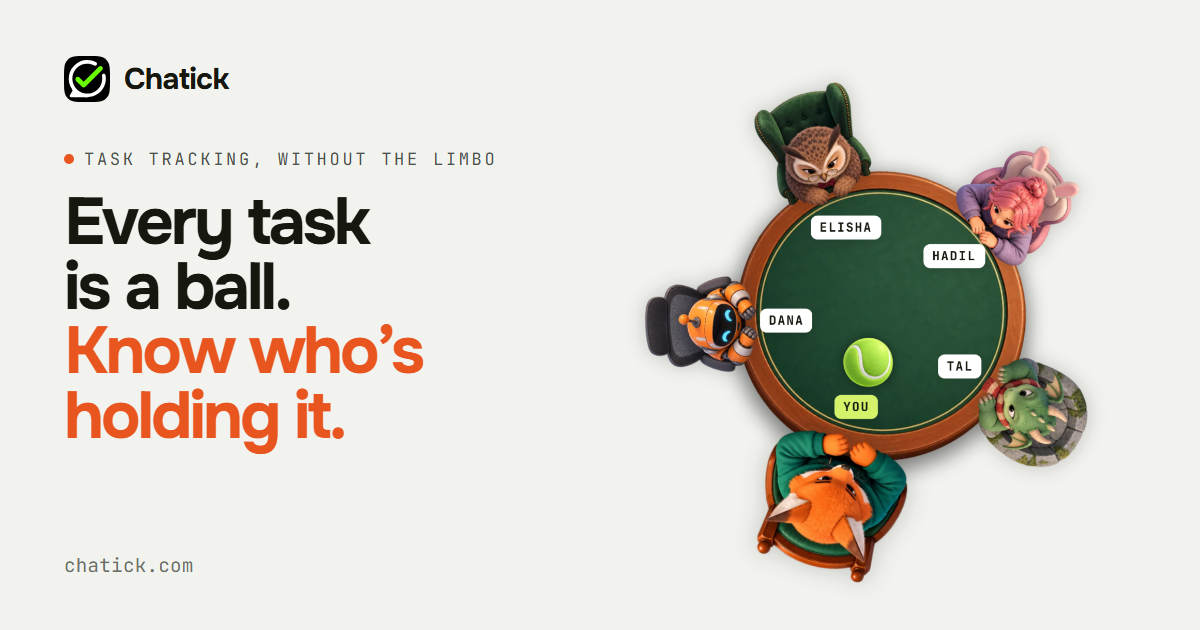
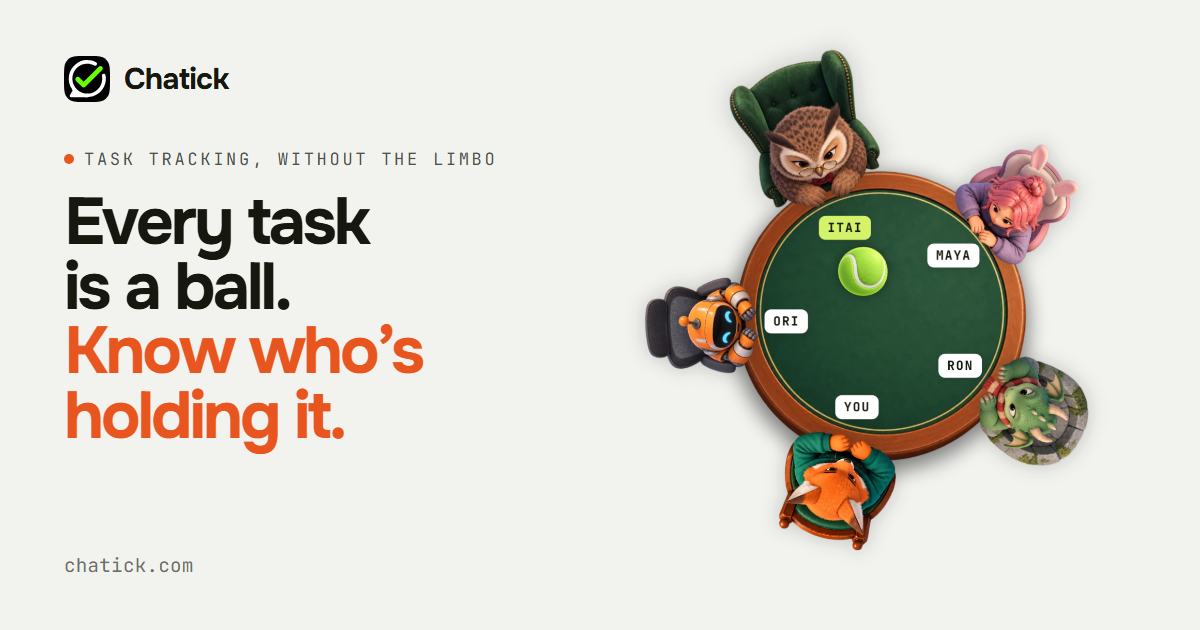
Лендинг: за столом придуманные имена вместо настоящих
Dana, Elisha, Hadil, Tal совпадали с людьми из команды заказчика.
Теперь Ори, Итай, Майя, Рон (en/ru/he), пример упоминания — @ori.
og.png переснят с новыми именами.

diff --git a/apps/landing/src/copy.ts b/apps/landing/src/copy.ts
@@ -69,7 +69,7 @@ const en: LandCopy = {
     start: 'Start free',
     askAi: 'Ask your AI what this is',
     note: 'Free during the beta · Code on GitHub · Runs on your own server too',
-    people: ['Dana', 'Elisha', 'Hadil', 'Tal', 'You'],
+    people: ['Ori', 'Itai', 'Maya', 'Ron', 'You'],
     heat: { warm: 'Warm', hot: 'Hot', burn: 'Burning' },
     held: 'held',
     moves: { do: 'doing', review: 'review', answer: 'question' },
@@ -108,7 +108,7 @@ const en: LandCopy = {
       title: 'One screen. Throw, catch, react.',
       text: 'Type the task, tag who and where, hit Enter — it lands in their hands. Your three most urgent sit on the table, with everyone involved around it.',
       task: 'Fix review cards on mobile',
-      person: '@dana',
+      person: '@ori',
       project: '#vpure',
     },
     dev: {
@@ -180,7 +180,7 @@ const ru: LandCopy = {
     start: 'Начать бесплатно',
     askAi: 'Спросить свой ИИ, что это',
     note: 'Бесплатно на время беты · Код на GitHub · Можно поставить на свой сервер',
-    people: ['Дана', 'Элиша', 'Хадиль', 'Тал', 'Вы'],
+    people: ['Ори', 'Итай', 'Майя', 'Рон', 'Вы'],
     heat: { warm: 'Тепло', hot: 'Жарко', burn: 'Горит' },
     held: 'лежит',
     moves: { do: 'делает', review: 'проверка', answer: 'вопрос' },
@@ -219,7 +219,7 @@ const ru: LandCopy = {
       title: 'Один экран. Бросить, поймать, ответить.',
       text: 'Напишите задачу, отметьте кому и куда, Enter — она уже у человека. Три самые срочные лежат на столе, а вокруг — все, кто в них участвует.',
       task: 'Поправить карточки ревью на мобиле',
-      person: '@дана',
+      person: '@ори',
       project: '#vpure',
     },
     dev: {
@@ -291,7 +291,7 @@ const he: LandCopy = {
     start: 'להתחיל בחינם',
     askAi: 'לשאול את ה־AI מה זה',
     note: 'חינם בתקופת הבטא · הקוד ב־GitHub · אפשר גם על שרת משלכם',
-    people: ['דנה', 'אלישע', 'הדיל', 'טל', 'את/ה'],
+    people: ['אורי', 'איתי', 'מאיה', 'רון', 'את/ה'],
     heat: { warm: 'חמים', hot: 'חם', burn: 'בוער' },
     held: 'מחכה',
     moves: { do: 'בביצוע', review: 'בדיקה', answer: 'שאלה' },
@@ -330,7 +330,7 @@ const he: LandCopy = {
       title: 'מסך אחד. לזרוק, לתפוס, להגיב.',
       text: 'כותבים משימה, מתייגים למי ואיפה, Enter — והיא כבר אצלו. שלוש הדחופות ביותר מונחות על השולחן, וסביבו כל המעורבים.',
       task: 'לתקן כרטיסי ביקורת במובייל',
-      person: '@דנה',
+      person: '@אורי',
       project: '#vpure',
     },
     dev: {
